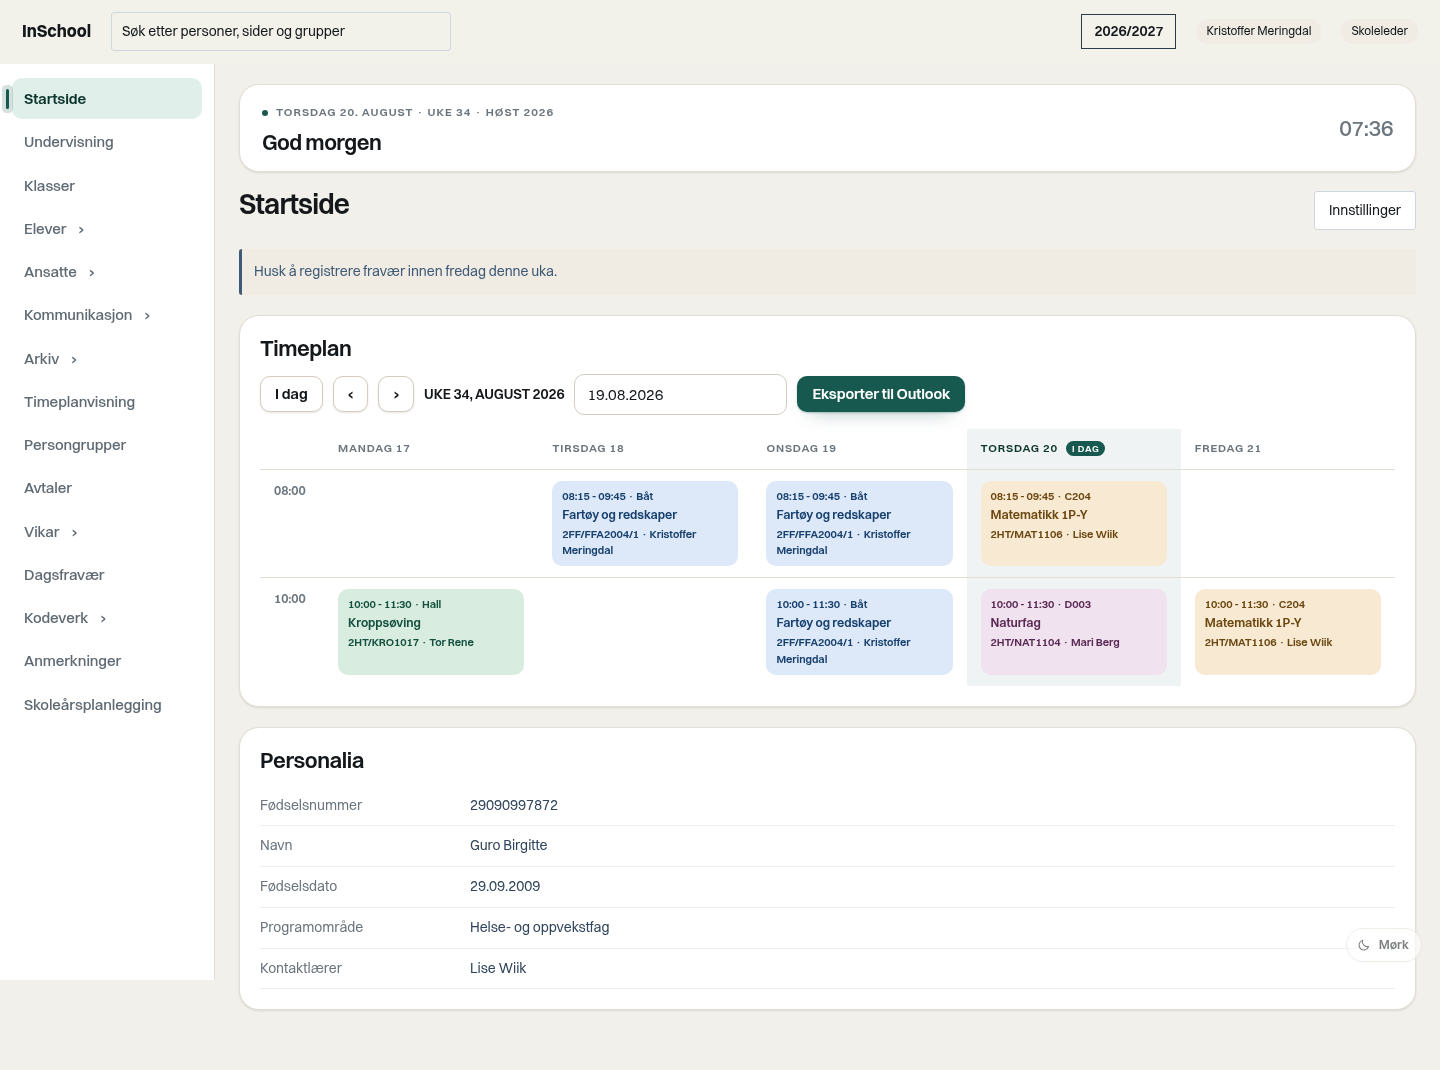
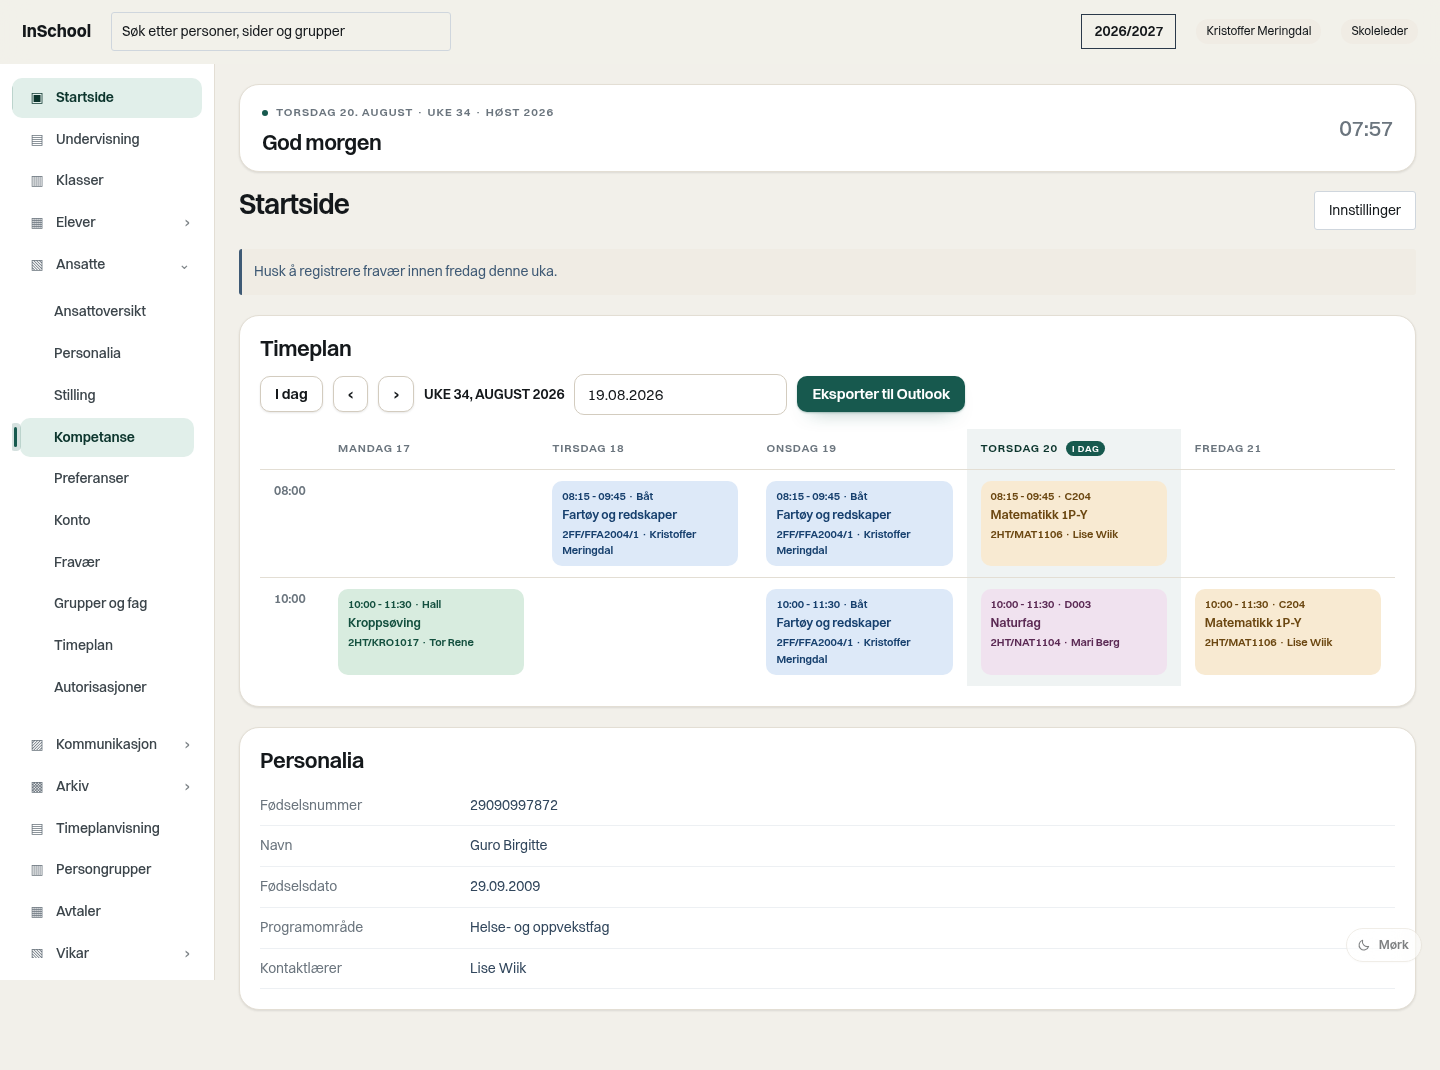
Rydd opp i sidemenyen: riktig beholder, riktig oppsett, én flate
Skjermbildene viste to feil med samme opphav – temaet traff deler av menyen
i stedet for hele. Testsiden er bygd om til VIS sin faktiske menystruktur
(ikon + etikett + pil, rullebeholder og et utvidet undermenypanel).

- Ligger en menykandidat inni en annen, velges nå alltid den ytterste. Et
  utvidet undermenypanel er høyt nok og har nok lenker til å se ut som en
  hel meny for seg; når det ble valgt, fikk én del av menyen temaets farger
  og resten appens egne. Samme regel gjelder topplinja.
- Alt inni menyen males gjennomsiktig, så appens paneler ikke slår gjennom
  som en annen flate i mørk modus.
- Menypunktene leses opp i deler: den lengste teksten er etiketten og får
  plassen, det som kommer etter er piler og tellere og legger seg til høyre.
  Før havnet etiketten mot høyre kant i alle punkter med ikon.
- Appens eget innrykk i menypunktene beholdes, slik at undermenyen fortsatt
  ligger under sin gruppe. Verdien leses før punktet merkes.
- Skriftstørrelsen i menyen følger brødteksten igjen; lange navn ble
  avkortet da den var større. Ikoner dempes, aktivt punkt farger sitt eget.
- Menyens dempede tekstfarge er mørknet til 4.7:1 mot hvit flate.

Måling: 0 tekster under WCAG AA på alle tre testsidene i begge moduser
(24, 22 og 6 uten temaet).

Claude-Session: https://claude.ai/code/session_01Prw2kTvG8xCLPB4tWpMtxR

diff --git a/visma-inschool-theme/test/mock-vis.html b/visma-inschool-theme/test/mock-vis.html
@@ -17,11 +17,16 @@
   .year{border:1px solid #2b3a4a;padding:6px 12px;font-weight:600}
   .rolechip{background:#e8eef5;color:#3f5a75;border-radius:12px;padding:3px 10px;font-size:12px}
   .sidemenu{position:fixed;top:64px;bottom:0;left:0;width:215px;background:#fff;border-right:1px solid #dfe3e8;overflow:auto;padding:8px 0;z-index:4}
-  .sidemenu .group{display:flex;align-items:center;gap:10px;padding:11px 16px;color:#2b3a4a;cursor:pointer}
-  .sidemenu .group .chev{margin-left:auto;color:#8a97a4}
-  .sidemenu a{display:block;text-decoration:none;padding:2px 0}
-  .sidemenu a .label{display:inline-block;padding:6px 14px;margin-left:24px;border-radius:14px;background:#eef2f6;color:#3f5a75;font-size:13px}
-  .sidemenu a.active .label{background:#dff0e6;color:#14603c;font-weight:600}
+  .menu-scroll{overflow:auto;height:100%}
+  .menu-item{display:flex;align-items:center;gap:10px;padding:9px 16px;color:#2b3a4a;cursor:pointer;text-decoration:none;font-size:13.5px}
+  .menu-item .icon{color:#8a97a4;font-size:13px;width:16px;text-align:center}
+  .menu-item .chev{margin-left:auto;color:#8a97a4}
+  .menu-item .label{display:inline-block;padding:5px 12px;border-radius:14px;background:#eef2f6;color:#3f5a75}
+  .menu-item.active .label,.menu-item.selected .label{background:#dff0e6;color:#14603c;font-weight:600}
+  /* Utvidet undermeny med egen mørk flate – dette er elementet som tidligere
+     ble forvekslet med hele menyen. */
+  .submenu-panel{background:#e7ecf1;padding:4px 0 8px;margin:2px 8px 8px;border-radius:6px}
+  .submenu-panel .menu-item{padding-left:34px}
   .page{padding:84px 24px 40px 239px;background:#f4f6f8;min-height:100vh}
   .pagehead{display:flex;align-items:center;justify-content:space-between;margin-bottom:16px}
   .pagehead h1{font-size:22px;margin:0}
@@ -53,21 +58,34 @@
   </div>
 
   <nav class="sidemenu">
-    <a href="#/app/dashboard" class="active"><span class="label">Startside</span></a>
-    <a href="#/app/teaching"><span class="label">Undervisning</span></a>
-    <a href="#/app/classes"><span class="label">Klasser</span></a>
-    <div class="group">Elever <span class="chev">›</span></div>
-    <div class="group">Ansatte <span class="chev">›</span></div>
-    <div class="group">Kommunikasjon <span class="chev">›</span></div>
-    <div class="group">Arkiv <span class="chev">›</span></div>
-    <a href="#/app/timetableview"><span class="label">Timeplanvisning</span></a>
-    <a href="#/app/persongroups"><span class="label">Persongrupper</span></a>
-    <a href="#/app/appointments"><span class="label">Avtaler</span></a>
-    <div class="group">Vikar <span class="chev">›</span></div>
-    <a href="#/app/dayabsence"><span class="label">Dagsfravær</span></a>
-    <div class="group">Kodeverk <span class="chev">›</span></div>
-    <a href="#/app/remarks"><span class="label">Anmerkninger</span></a>
-    <a href="#/app/yearplanning"><span class="label">Skoleårsplanlegging</span></a>
+    <div class="menu-scroll">
+      <a href="#/app/dashboard" class="menu-item active"><i class="icon">▣</i><span class="label">Startside</span></a>
+      <a href="#/app/teaching" class="menu-item"><i class="icon">▤</i><span class="label">Undervisning</span></a>
+      <a href="#/app/classes" class="menu-item"><i class="icon">▥</i><span class="label">Klasser</span></a>
+      <div class="menu-item group"><i class="icon">▦</i><span class="label">Elever</span><span class="chev">›</span></div>
+      <div class="menu-item group expanded"><i class="icon">▧</i><span class="label">Ansatte</span><span class="chev">⌄</span></div>
+      <div class="submenu-panel">
+        <a href="#/app/staff/overview" class="menu-item sub"><span class="label">Ansattoversikt</span></a>
+        <a href="#/app/staff/personal" class="menu-item sub"><span class="label">Personalia</span></a>
+        <a href="#/app/staff/position" class="menu-item sub"><span class="label">Stilling</span></a>
+        <a href="#/app/staff/competence" class="menu-item sub selected"><span class="label">Kompetanse</span></a>
+        <a href="#/app/staff/prefs" class="menu-item sub"><span class="label">Preferanser</span></a>
+        <a href="#/app/staff/account" class="menu-item sub"><span class="label">Konto</span></a>
+        <a href="#/app/staff/absence" class="menu-item sub"><span class="label">Fravær</span></a>
+        <a href="#/app/staff/groups" class="menu-item sub"><span class="label">Grupper og fag</span></a>
+        <a href="#/app/staff/timetable" class="menu-item sub"><span class="label">Timeplan</span></a>
+        <a href="#/app/staff/auth" class="menu-item sub"><span class="label">Autorisasjoner</span></a>
+      </div>
+      <div class="menu-item group"><i class="icon">▨</i><span class="label">Kommunikasjon</span><span class="chev">›</span></div>
+      <div class="menu-item group"><i class="icon">▩</i><span class="label">Arkiv</span><span class="chev">›</span></div>
+      <a href="#/app/timetableview" class="menu-item"><i class="icon">▤</i><span class="label">Timeplanvisning</span></a>
+      <a href="#/app/persongroups" class="menu-item"><i class="icon">▥</i><span class="label">Persongrupper</span></a>
+      <a href="#/app/appointments" class="menu-item"><i class="icon">▦</i><span class="label">Avtaler</span></a>
+      <div class="menu-item group"><i class="icon">▧</i><span class="label">Vikar</span><span class="chev">›</span></div>
+      <a href="#/app/dayabsence" class="menu-item"><i class="icon">▨</i><span class="label">Dagsfravær</span></a>
+      <a href="#/app/remarks" class="menu-item"><i class="icon">▩</i><span class="label">Anmerkninger</span></a>
+      <a href="#/app/yearplanning" class="menu-item"><i class="icon">▣</i><span class="label">Skoleårsplanlegging</span></a>
+    </div>
   </nav>
 
   <div class="page">

diff --git a/visma-inschool-theme/css/layout.css b/visma-inschool-theme/css/layout.css
@@ -20,8 +20,9 @@ html[data-klar='on'][data-klar-sidebar='light'] [data-klar-el='sidebar'] {
 html[data-klar='on'] [data-klar-el='sidebar'] :is(*, *::before, *::after) {
   border-color: var(--k-nav-line) !important;
 }
-html[data-klar='on'] [data-klar-el='sidebar'] :is(div, ul, li, nav, section, span) {
+html[data-klar='on'] [data-klar-el='sidebar'] *:not([data-klar-el='nav-item']) {
   background-color: transparent !important;
+  box-shadow: none !important;
 }
 /* Sidens egne tekstfarger (ofte mørk blå) ville forsvunnet mot den mørke
    flaten – alt som ikke er merket av oss arver menyens farge i stedet. */
@@ -57,13 +58,16 @@ html[data-klar='on'] [data-klar-el='nav-item'] {
   align-items: center;
   justify-content: flex-start !important;
   text-align: left !important;
-  gap: var(--k-space-3);
+  gap: 10px;
   position: relative;
-  padding: 9px 12px !important;
+  padding-top: 9px !important;
+  padding-bottom: 9px !important;
+  padding-right: 12px !important;
   margin: 2px 0 !important;
+  min-width: 0;
   border-radius: var(--k-r-sm) !important;
-  color: var(--k-nav-muted) !important;
-  font-size: var(--k-text-md) !important;
+  color: var(--k-nav-ink) !important;
+  font-size: var(--k-text-base) !important;
   font-weight: 500 !important;
   letter-spacing: -0.008em;
   text-decoration: none !important;
@@ -72,10 +76,15 @@ html[data-klar='on'] [data-klar-el='nav-item'] {
   transition: background var(--k-dur) var(--k-ease), color var(--k-dur) var(--k-ease),
     transform var(--k-dur) var(--k-ease);
 }
+/* Uten eget innrykk fra appen setter vi vårt eget. Har punktet innrykk fra
+   før – typisk et undermenypunkt – er det hierarkiet vi vil beholde. */
+html[data-klar='on'] [data-klar-el='nav-item']:not([data-klar-indent]) {
+  padding-left: 12px !important;
+}
 html[data-klar='on'] [data-klar-el='nav-item'] > * { color: inherit !important; }
 html[data-klar='on'] [data-klar-el='nav-item']:hover {
   background: var(--k-nav-hover) !important;
-  color: var(--k-nav-ink) !important;
+  color: var(--k-nav-hover-ink) !important;
 }
 html[data-klar='on'] [data-klar-el='nav-item']:active { transform: translateY(0.5px); }
 
@@ -83,6 +92,15 @@ html[data-klar='on'] [data-klar-el='nav-item'][data-klar-active] {
   background: var(--k-nav-active-bg) !important;
   color: var(--k-nav-active-ink) !important;
   font-weight: 600 !important;
+}
+html[data-klar='on'] [data-klar-el='nav-item'] > :is(i, [class*='icon' i], svg) {
+  color: var(--k-nav-muted) !important;
+  flex: 0 0 auto;
+  width: 18px;
+  justify-content: center;
+}
+html[data-klar='on'] [data-klar-el='nav-item'][data-klar-active] > :is(i, [class*='icon' i], svg) {
+  color: currentColor !important;
 }
 html[data-klar='on'] [data-klar-el='nav-item'][data-klar-active]::before {
   content: '';
@@ -100,11 +118,12 @@ html[data-klar='on'][data-klar-sidebar='light'] [data-klar-el='nav-item'][data-k
   color: var(--k-accent-ink) !important;
 }
 
-/* Menypunktene skal alltid stå på linje til venstre – appens egne piller,
-   ikoner og teller-elementer inni dem skal ikke dra teksten ut av flukt. */
-html[data-klar='on'] [data-klar-el='nav-item'] > :is(span, div, i, em, small) {
+/* Appens egne piller og bokser inni menypunktene nulles ut – ikonet først,
+   etiketten tar plassen, og pil/teller legger seg til høyre. */
+html[data-klar='on'] [data-klar-el='nav-item'] > :is(span, div, i, em, small, b, strong) {
   display: inline-flex !important;
   align-items: center;
+  flex: 0 0 auto;
   margin: 0 !important;
   padding: 0 !important;
   background: transparent !important;
@@ -115,9 +134,16 @@ html[data-klar='on'] [data-klar-el='nav-item'] > :is(span, div, i, em, small) {
   text-align: left;
   min-width: 0;
 }
-html[data-klar='on'] [data-klar-el='nav-item'] > :is(span, div):last-child:not(:first-child) {
-  margin-left: auto !important;
-  opacity: 0.7;
+html[data-klar='on'] [data-klar-el='nav-item'] > [data-klar-label] {
+  flex: 1 1 auto !important;
+  overflow: hidden;
+  text-overflow: ellipsis;
+  white-space: nowrap;
+  display: block !important;
+}
+html[data-klar='on'] [data-klar-el='nav-item'] > [data-klar-tail] {
+  margin-left: 8px !important;
+  opacity: 0.65;
 }
 
 /* --------------------------------------------------------------------------

diff --git a/visma-inschool-theme/js/classify.js b/visma-inschool-theme/js/classify.js
@@ -170,9 +170,8 @@
       .querySelectorAll('nav, aside, [role="navigation"], [class*="nav" i], [class*="menu" i], [class*="drawer" i], [id*="nav" i], [id*="menu" i]')
       .forEach((el) => candidates.add(el));
 
-    let best = null;
-    let bestScore = 0;
     const vh = window.innerHeight;
+    const qualified = [];
 
     candidates.forEach((el) => {
       if (isOurs(el)) return;
@@ -185,11 +184,25 @@
       let score = r.height / vh + Math.min(links, 24) / 6;
       if (looksLike(el, NAV_RE)) score += 4;
       if (el.tagName === 'NAV' || el.getAttribute('role') === 'navigation') score += 2;
-      /* Foretrekk den ytterste beholderen når flere overlapper */
-      score -= depthOf(el) * 0.05;
-      if (score > bestScore) {
-        bestScore = score;
-        best = el;
+      qualified.push({ el: el, score: score });
+    });
+
+    return pickOutermost(qualified);
+  }
+
+  /* Et utvidet undermenypanel kan se ut som en hel meny for seg. Ligger en
+     kandidat inni en annen, er det alltid den ytterste som er skallet – ellers
+     ender vi med å farge en del av menyen og la resten stå. */
+  function pickOutermost(qualified) {
+    const outer = qualified.filter(
+      (q) => !qualified.some((o) => o.el !== q.el && o.el.contains(q.el))
+    );
+    let best = null;
+    let bestScore = -Infinity;
+    outer.forEach((q) => {
+      if (q.score > bestScore) {
+        bestScore = q.score;
+        best = q.el;
       }
     });
     return best;
@@ -202,8 +215,7 @@
   }
 
   function findTopbar() {
-    let best = null;
-    let bestScore = 0;
+    const qualified = [];
     const vw = window.innerWidth;
     document
       .querySelectorAll('header, [role="banner"], [class*="header" i], [class*="toolbar" i], [class*="topbar" i], [class*="navbar" i], [class*="appbar" i]')
@@ -217,13 +229,9 @@
         let score = r.width / vw;
         if (looksLike(el, BAR_RE)) score += 2;
         if (el.tagName === 'HEADER' || el.getAttribute('role') === 'banner') score += 1.5;
-        score -= depthOf(el) * 0.05;
-        if (score > bestScore) {
-          bestScore = score;
-          best = el;
-        }
+        qualified.push({ el: el, score: score });
       });
-    return best;
+    return pickOutermost(qualified);
   }
 
   /* Når hovedflaten ligger i en beholder som også rommer topplinja, går vi ett
@@ -340,6 +348,45 @@
     return false;
   }
 
+  /* Menypunkter er bygd som ikon + etikett + pil. Vi peker ut hvilken del som
+     er etiketten, slik at den alltid får plassen – uten den ville et punkt med
+     ikon fått teksten dyttet mot høyre kant. Appens eget innrykk beholdes, det
+     er som regel det som skiller undermeny fra hovedmeny. */
+  const navPad = new WeakMap();
+
+  function tagNavParts(el) {
+    let pad = navPad.get(el);
+    if (pad === undefined) {
+      pad = parseFloat(window.getComputedStyle(el).paddingLeft) || 0;
+      navPad.set(el, pad);
+    }
+    if (pad >= 14) el.setAttribute('data-klar-indent', '');
+
+    const kids = el.children;
+    if (!kids.length) return;
+    let label = null;
+    let best = 1;
+    for (const k of kids) {
+      const len = textOf(k).length;
+      if (len > best) {
+        best = len;
+        label = k;
+      }
+    }
+    for (const k of kids) {
+      k.removeAttribute('data-klar-label');
+      k.removeAttribute('data-klar-tail');
+    }
+    if (!label) return;
+    label.setAttribute('data-klar-label', '');
+    /* alt som kommer etter etiketten er piler, tellere og lignende */
+    let after = label.nextElementSibling;
+    while (after) {
+      after.setAttribute('data-klar-tail', '');
+      after = after.nextElementSibling;
+    }
+  }
+
   function tagNavItems(nav) {
     const hash = location.hash || '';
     const items = nav.querySelectorAll(
@@ -352,6 +399,8 @@
       if (!t || t.length > 48) return;
       /* hopp over elementer som bare inneholder et annet menypunkt */
       if (el.querySelector('a, button, [role="menuitem"], [role="treeitem"]')) return;
+      /* Måles før elementet merkes – etterpå er det vår egen luft vi leser. */
+      tagNavParts(el);
       el.setAttribute('data-klar-el', 'nav-item');
 
       const href = el.getAttribute('href') || '';

diff --git a/visma-inschool-theme/css/tokens.css b/visma-inschool-theme/css/tokens.css
@@ -74,8 +74,9 @@ html[data-klar='on'][data-klar-scheme='light'] {
   --k-ring: 0 0 0 3px var(--k-accent-ring);
 
   --k-nav-bg: var(--k-surface);
-  --k-nav-ink: var(--k-ink);
-  --k-nav-muted: #5f6a73;
+  --k-nav-ink: #3c454b;
+  --k-nav-hover-ink: #14181b;
+  --k-nav-muted: #6b757e;
   --k-nav-line: var(--k-line);
   --k-nav-hover: rgba(20, 24, 27, 0.05);
   --k-nav-active-bg: var(--k-accent-soft);
@@ -86,8 +87,9 @@ html[data-klar='on'][data-klar-scheme='light'] {
 /* Mørk sidemeny (valgfritt) */
 html[data-klar='on'][data-klar-sidebar='dark'] {
   --k-nav-bg: #14191c;
-  --k-nav-ink: #e9e6df;
-  --k-nav-muted: #9aa3a8;
+  --k-nav-ink: #cfd3d3;
+  --k-nav-hover-ink: #ffffff;
+  --k-nav-muted: #8b9499;
   --k-nav-line: rgba(255, 255, 255, 0.08);
   --k-nav-hover: rgba(255, 255, 255, 0.06);
   --k-nav-active-bg: rgba(255, 255, 255, 0.1);
@@ -128,7 +130,8 @@ html[data-klar='on'][data-klar-scheme='dark'] {
   --k-shadow-3: 0 30px 60px -28px rgba(0, 0, 0, 0.9);
 
   --k-nav-bg: var(--k-surface);
-  --k-nav-ink: var(--k-ink);
+  --k-nav-ink: #c6ccd1;
+  --k-nav-hover-ink: #eceae4;
   --k-nav-muted: #8d979e;
   --k-nav-line: var(--k-line);
   --k-nav-hover: rgba(255, 255, 255, 0.05);
@@ -139,7 +142,8 @@ html[data-klar='on'][data-klar-scheme='dark'] {
 
 html[data-klar='on'][data-klar-scheme='dark'][data-klar-sidebar='dark'] {
   --k-nav-bg: #101315;
-  --k-nav-ink: #e7e4de;
+  --k-nav-ink: #c6ccd1;
+  --k-nav-hover-ink: #ffffff;
   --k-nav-muted: #8b9499;
   --k-nav-line: rgba(255, 255, 255, 0.06);
   --k-nav-hover: rgba(255, 255, 255, 0.05);

diff --git a/visma-inschool-theme/README.md b/visma-inschool-theme/README.md
@@ -14,8 +14,9 @@ moderne og godt lesbart design – uten å endre hvordan tjenesten fungerer.
 
 ## Hva du får
 
-- **Tydelig sidemeny.** Rolig meny med tydelig aktiv markør, egen merkevareblokk og god luft –
-  lys som resten av grensesnittet, eller mørk om du heller vil ha det.
+- **Tydelig sidemeny.** Ikon, etikett og pil står der de skal, undermenyens innrykk beholdes,
+  og det aktive punktet er umulig å ta feil av – lys som resten av grensesnittet, eller mørk
+  om du heller vil ha det.
 - **Kort som ser ut som kort.** Én skyggeverdi, én kantfarge, konsekvent radius – ingen dobbelt innramming.
 - **En rolig hilsen på startsiden.** Dato, ukenummer, semester og klokke i samme flate som
   kortene – og bare der. Resten av skjermene får være i fred.
@@ -112,7 +113,16 @@ Noen detaljer som er verdt å vite:
   gjentas ved hvert fullskann, siden flatene kan ha endret farge underveis.
 - **Appens egen luft respekteres.** Har hovedflaten allerede innrykk – typisk fordi
   sidemenyen eller topplinja er `position: fixed` – legger vi ikke vår egen padding
-  oppå. Vi fyller bare på der det ikke finnes luft fra før.
+  oppå. Vi fyller bare på der det ikke finnes luft fra før. Det samme gjelder kort og
+  menypunkter: et undermenypunkt med eget innrykk beholder hierarkiet sitt. Verdiene
+  leses før elementet merkes, ellers ville vi lest vår egen luft.
+- **Den ytterste beholderen vinner.** Et utvidet undermenypanel kan se ut som en hel meny
+  for seg – høyt nok, mange nok lenker, helt til venstre. Ligger en kandidat inni en annen,
+  velges alltid den ytterste, og alt inni menyen males gjennomsiktig. Uten den regelen
+  fargelegges én del av menyen mens resten står igjen i appens egne farger.
+- **Menypunktene leses opp i deler.** Den lengste teksten i punktet er etiketten og får
+  plassen; det som kommer etter, er piler og tellere og legger seg til høyre. Uten det
+  ville et punkt med ikon fått teksten dyttet mot høyre kant.
 - **Fargekoding krever en klynge.** Fargede felter blir bare til timer når minst tre
   ligger samlet under samme beholder. En enslig infoboks får beholde sin egen farge.
   Tonen velges ut fra fagnavnet – den mest fremhevede teksten i timen – slik at samme
